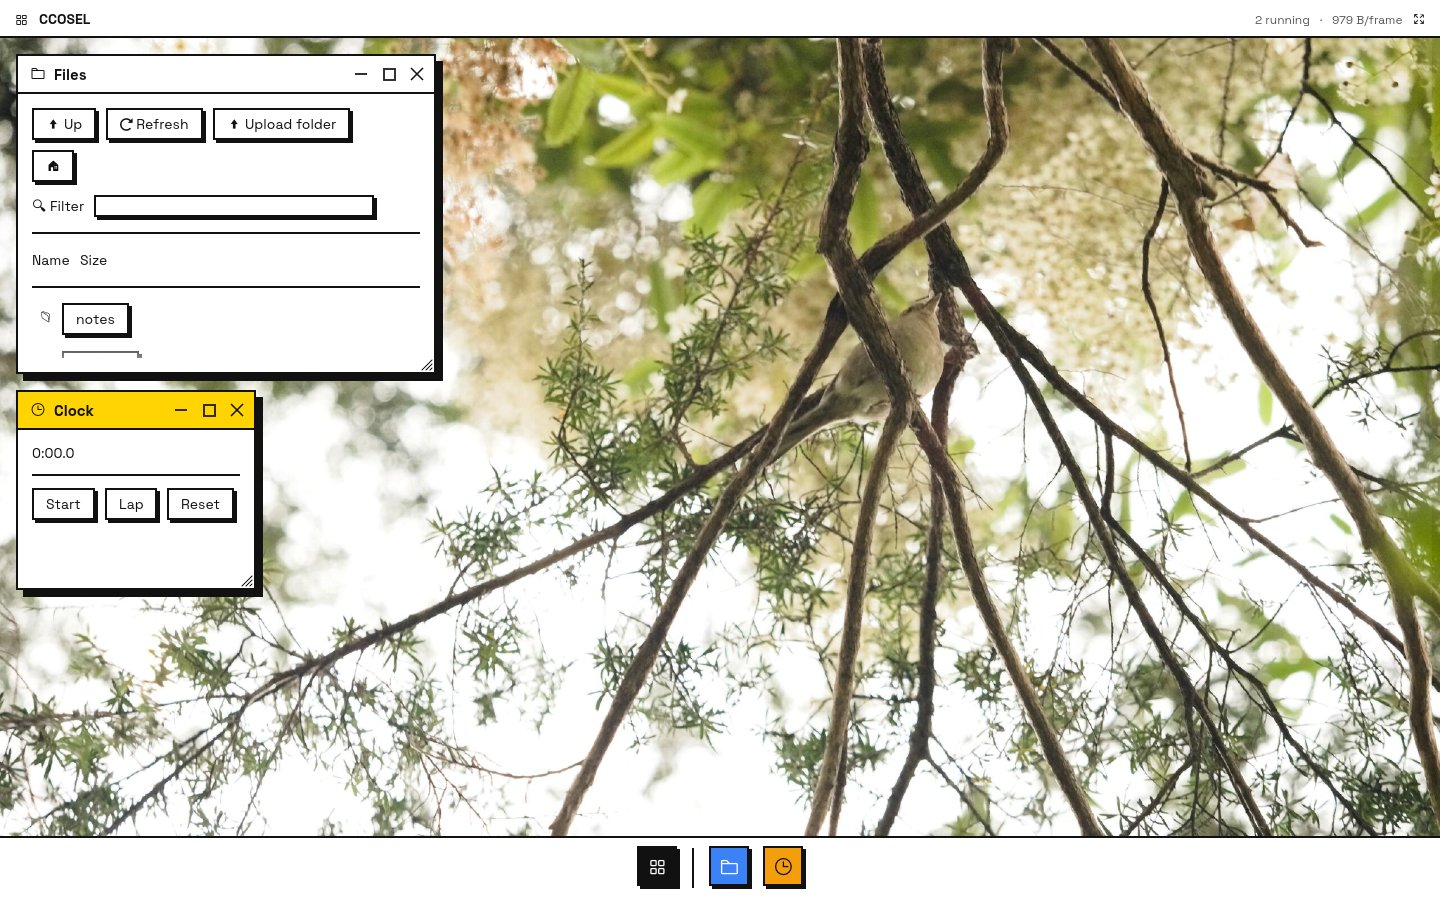
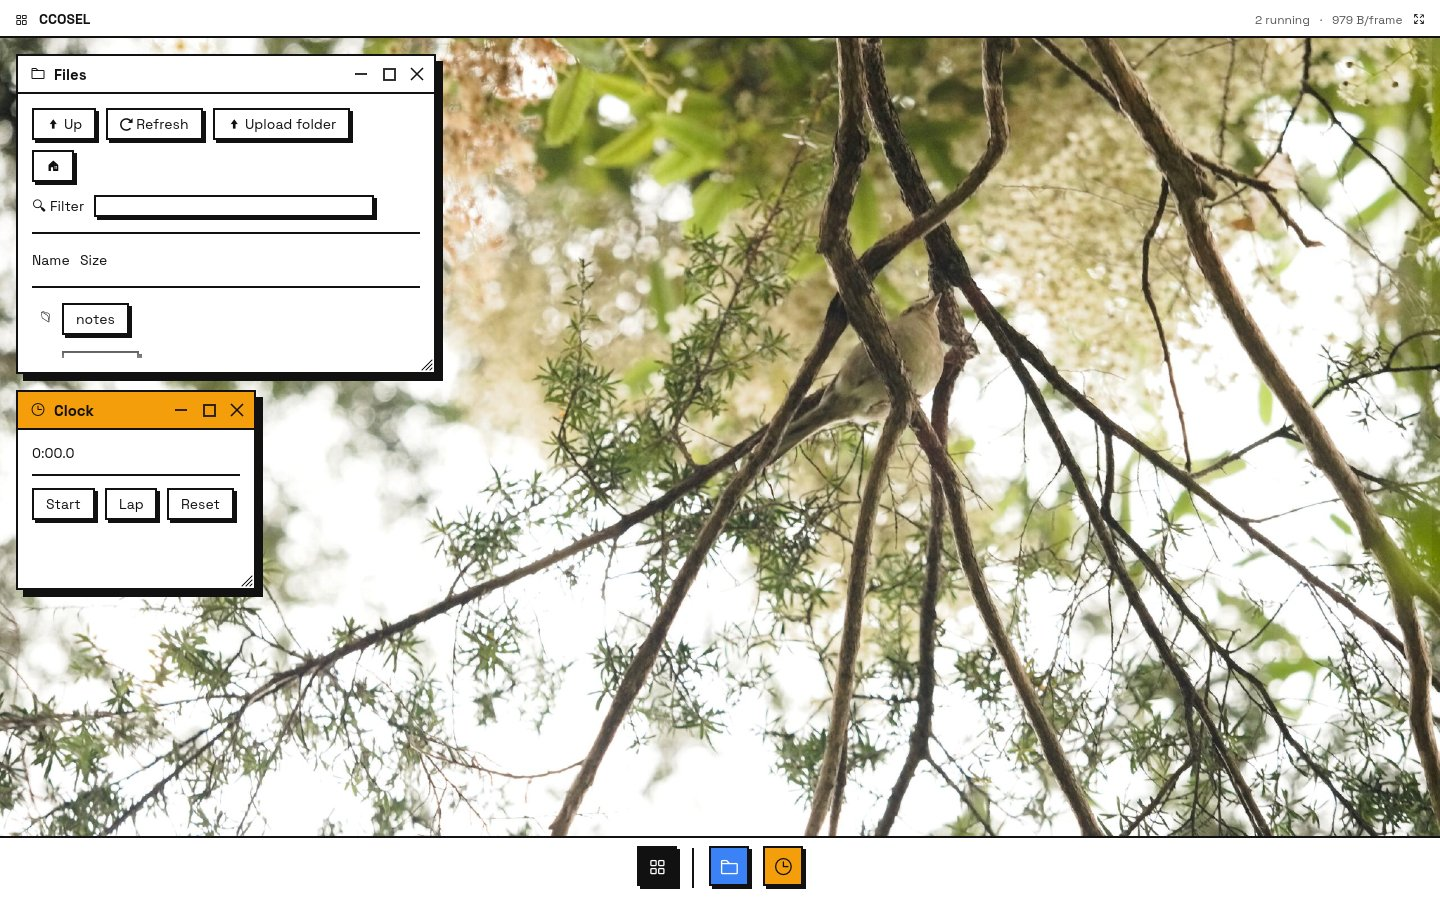
shell: fill the active title bar with the app's own colour
The active window's title bar used the theme's yellow accent; it now takes
the same colour as the app's dock badge, so a window and its badge read as
one thing. The icon, title and `– □ ×` are ink or white, whichever
contrasts with that colour (`theme::contrast_color`, as on the badges).
Inactive bars stay white. Screenshots updated.

Part of #42.

Changed region(s): [[0.0, 0.4356, 0.1875, 0.4978]]

diff --git a/crates/ccosel-shell/src/chrome.rs b/crates/ccosel-shell/src/chrome.rs
@@ -2,7 +2,7 @@
 //! egui's own (issue #42).
 //!
 //! egui's title bar can't be restyled far enough: it has no minimise or maximise button, and it
-//! fills the active window with `widgets.open`, which Brutal needs pale yellow for hover. So app
+//! fills the active window with `widgets.open`, not the app's own colour. So app
 //! windows are shown with `title_bar(false)`, and the bar here is the first thing in the body.
 //! That costs egui's title-bar drag, so the drag is rebuilt from public API: [`dragged_pos`].
 
@@ -85,7 +85,7 @@ pub fn show_window(
     default_size: Vec2,
     icon: &str,
     title: &str,
-    active: bool,
+    highlight: Option<Color32>,
     body: impl FnOnce(&mut Ui),
 ) -> TitleActions {
     let handle = title_handle(id);
@@ -110,7 +110,7 @@ pub fn show_window(
     window.show(ctx, |ui| {
         let spacing = ui.spacing().item_spacing;
         ui.spacing_mut().item_spacing.y = 0.0;
-        actions = title_bar(ui, handle, icon, title, active);
+        actions = title_bar(ui, handle, icon, title, highlight);
         ui.spacing_mut().item_spacing = spacing;
 
         // A window without egui's title bar is dragged from anywhere on its body, so a press
@@ -182,14 +182,24 @@ enum Glyph {
     Close,
 }
 
-/// The bar: yellow when `active`, white otherwise, with a rule under it. Dragging it moves the
-/// window, double-clicking it maximises, and `– □ ×` minimise, maximise and close.
-fn title_bar(ui: &mut Ui, handle: Id, icon: &str, title: &str, active: bool) -> TitleActions {
+/// The bar, with a rule under it: filled with `highlight` (the app's own colour, on the active
+/// window) or white. Its icon, title and buttons are ink or white, whichever reads on the fill.
+/// Dragging it moves the window, double-clicking it maximises, and `– □ ×` minimise, maximise
+/// and close.
+fn title_bar(
+    ui: &mut Ui,
+    handle: Id,
+    icon: &str,
+    title: &str,
+    highlight: Option<Color32>,
+) -> TitleActions {
     let t = theme::tokens();
     let (rect, _) =
         ui.allocate_exact_size(vec2(ui.available_width(), TITLE_BAR_HEIGHT), Sense::hover());
     let painter = ui.painter().clone();
-    painter.rect_filled(rect, 0, if active { t.accent } else { t.surface });
+    let fill = highlight.unwrap_or(t.surface);
+    let fg = theme::contrast_color(fill);
+    painter.rect_filled(rect, 0, fill);
     theme::paint_rule(&painter, rect, Align::Max);
 
     // Centred on the space above the rule.
@@ -207,9 +217,9 @@ fn title_bar(ui: &mut Ui, handle: Id, icon: &str, title: &str, active: bool) -> 
         );
         let r = ui.interact(button, handle.with(name), Sense::click());
         if r.hovered() {
-            painter.rect_stroke(button, 0, Stroke::new(t.stroke, t.ink), StrokeKind::Inside);
+            painter.rect_stroke(button, 0, Stroke::new(t.stroke, fg), StrokeKind::Inside);
         }
-        paint_glyph(&painter, button.center(), glyph, t.ink);
+        paint_glyph(&painter, button.center(), glyph, fg);
         *hit = r.clicked();
         right = button.left() - 2.0;
     }
@@ -227,7 +237,7 @@ fn title_bar(ui: &mut Ui, handle: Id, icon: &str, title: &str, active: bool) -> 
         egui::Align2::LEFT_CENTER,
         icon,
         egui::FontId::proportional(16.0),
-        t.ink,
+        fg,
     );
     x = icon.right() + 8.0;
     painter.text(
@@ -235,7 +245,7 @@ fn title_bar(ui: &mut Ui, handle: Id, icon: &str, title: &str, active: bool) -> 
         egui::Align2::LEFT_CENTER,
         title,
         theme::heading_font(15.0),
-        t.ink,
+        fg,
     );
 
     actions
@@ -268,6 +278,12 @@ mod tests {
     use wasm_bindgen_test::wasm_bindgen_test;
 
     use super::*;
+
+    /// Each test window's app colour: one light (ink text), one dark (white text).
+    const COLORS: [Color32; 2] = [
+        Color32::from_rgb(0xF5, 0x9E, 0x0B),
+        Color32::from_rgb(0x1D, 0x4E, 0xD8),
+    ];
 
     const SCREEN: Rect = Rect::from_min_max(Pos2::ZERO, Pos2::new(1200.0, 900.0));
     const DESKTOP: Rect = Rect::from_min_max(Pos2::new(0.0, 40.0), Pos2::new(1200.0, 820.0));
@@ -337,7 +353,7 @@ mod tests {
                         vec2(300.0, 200.0),
                         "@",
                         &format!("Window {i}"),
-                        active == Some(*id),
+                        (active == Some(*id)).then_some(COLORS[i]),
                         // As the desktop does: the body claims the whole window.
                         |ui| {
                             egui::ScrollArea::vertical()
@@ -510,20 +526,40 @@ mod tests {
     }
 
     #[wasm_bindgen_test]
-    fn the_active_title_bar_is_yellow_and_the_rest_are_white() {
+    fn the_active_title_bar_takes_its_apps_colour_and_the_rest_are_white() {
         let mut rig = Rig::new(2);
         rig.frame(vec![]);
         let t = theme::tokens();
         // Window 1 was shown last, so it starts on top.
-        assert!(rig.filled_with(rig.title_bar(1), t.accent));
+        assert!(rig.filled_with(rig.title_bar(1), COLORS[1]));
         assert!(rig.filled_with(rig.title_bar(0), t.surface));
 
-        // Clicking window 0 raises it, and the yellow moves with it.
+        // Clicking window 0 raises it, and the colour moves with it, in window 0's own colour.
         let grip = rig.title_bar(0).left_center() + vec2(60.0, 0.0);
         rig.click(grip);
         rig.frame(vec![]);
-        assert!(rig.filled_with(rig.title_bar(0), t.accent));
+        assert!(rig.filled_with(rig.title_bar(0), COLORS[0]));
         assert!(rig.filled_with(rig.title_bar(1), t.surface));
+    }
+
+    #[wasm_bindgen_test]
+    fn the_title_reads_on_whatever_colour_the_bar_is() {
+        let mut rig = Rig::new(2);
+        rig.frame(vec![]);
+        let title_color = |title: &str| {
+            rig.shapes
+                .iter()
+                .find_map(|s| match &s.shape {
+                    egui::Shape::Text(text) if text.galley.text() == title => {
+                        Some(text.galley.job.sections[0].format.color)
+                    }
+                    _ => None,
+                })
+                .unwrap_or_else(|| panic!("{title:?} was not painted"))
+        };
+        // Window 1 is active on a dark blue bar; window 0 is inactive on white.
+        assert_eq!(title_color("Window 1"), Color32::WHITE);
+        assert_eq!(title_color("Window 0"), theme::tokens().ink);
     }
 
     #[wasm_bindgen_test]

diff --git a/crates/ccosel-shell/src/desktop.rs b/crates/ccosel-shell/src/desktop.rs
@@ -260,7 +260,9 @@ impl Desktop {
                 window.default_size.into(),
                 window.icon,
                 &window.title.clone(),
-                active == Some(id),
+                // The active window's bar is filled with its app's colour, the same as its dock
+                // badge, so the two read as one thing.
+                (active == Some(id)).then_some(window.color),
                 |ui| {
                     // `auto_shrink(false)` claims the whole window body regardless of how much
                     // the app actually drew, so dragging the window bigger than its content

diff --git a/crates/ccosel-shell/src/theme.rs b/crates/ccosel-shell/src/theme.rs
@@ -30,7 +30,8 @@ pub struct Tokens {
     /// Outlines, rules and shadows. Brutal uses one ink for all three and for text.
     pub ink: Color32,
     pub text_dim: Color32,
-    /// "This one": the active window, the selection, the pressed button.
+    /// "This one": the selection and the pressed button. (The active window is marked in its
+    /// own app's colour instead.)
     pub accent: Color32,
     pub on_accent: Color32,
     pub danger: Color32,
